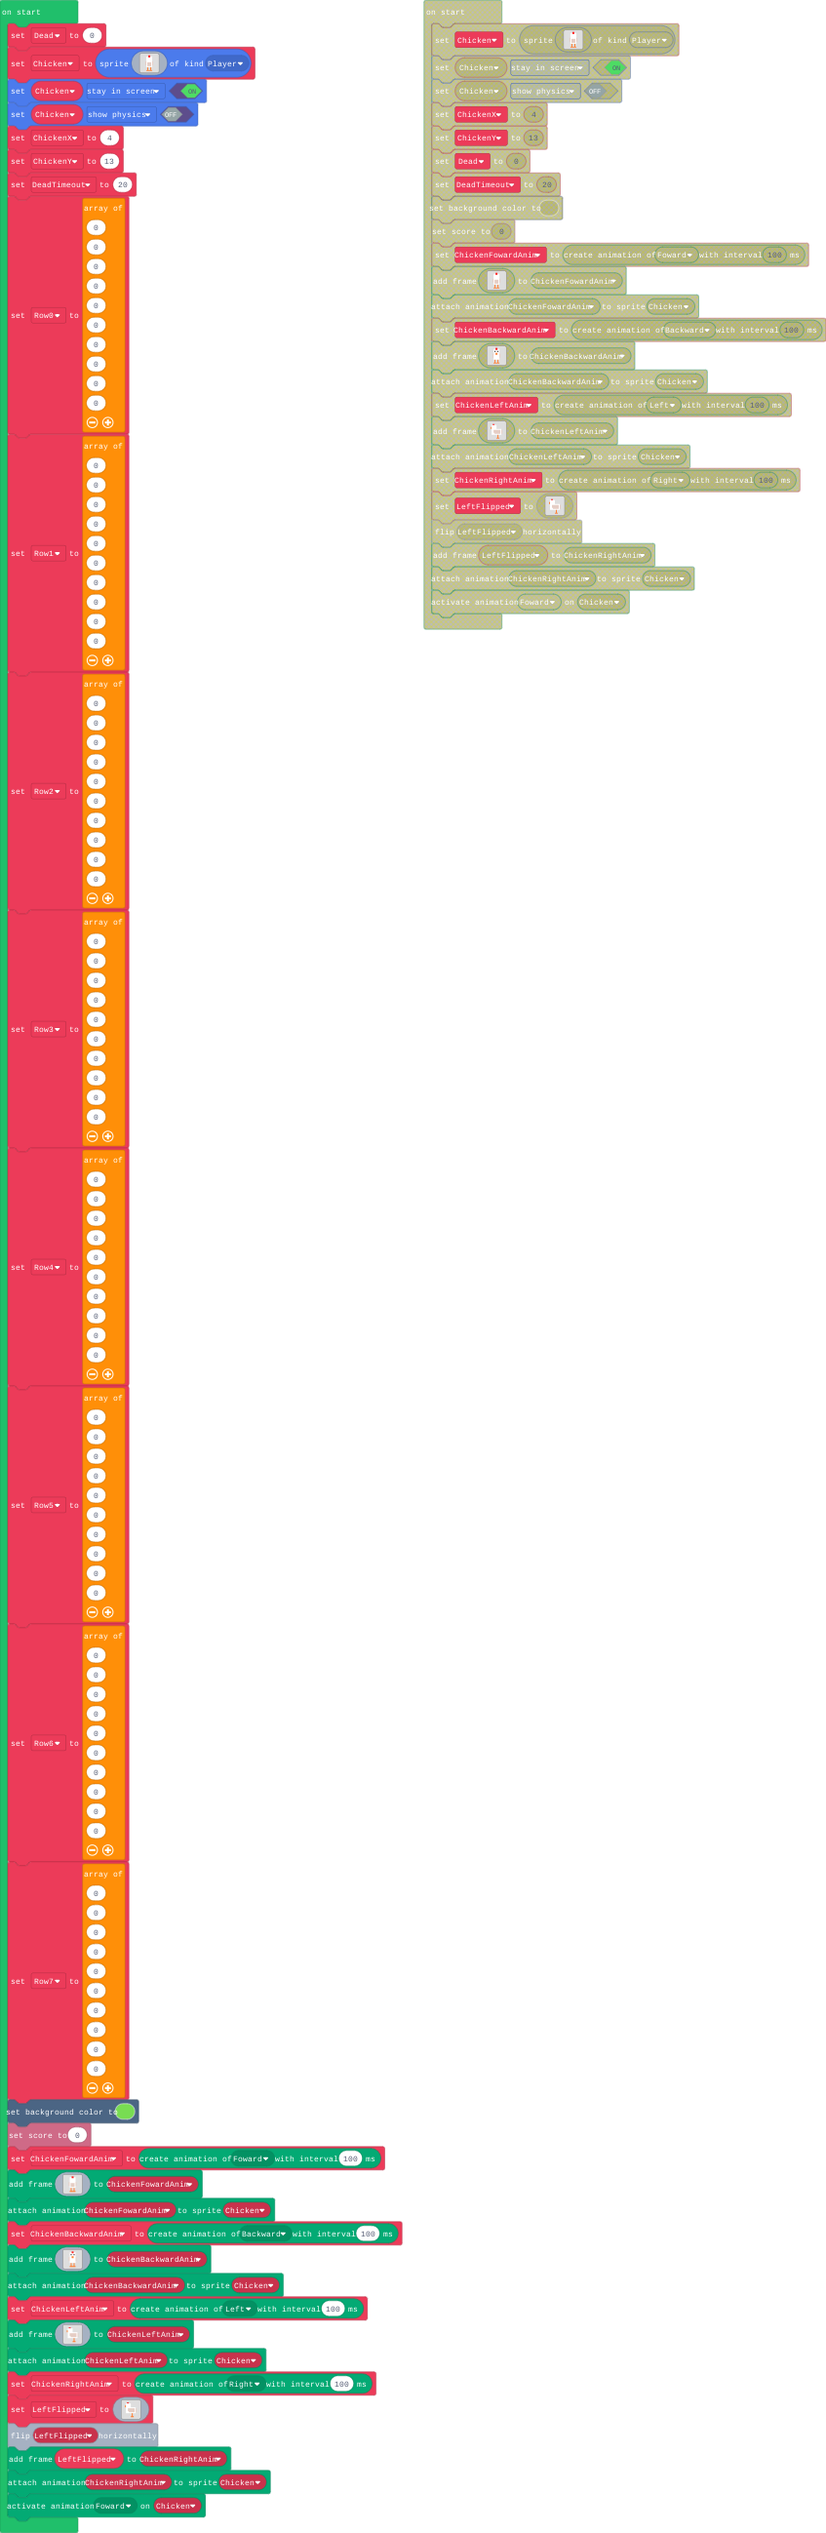
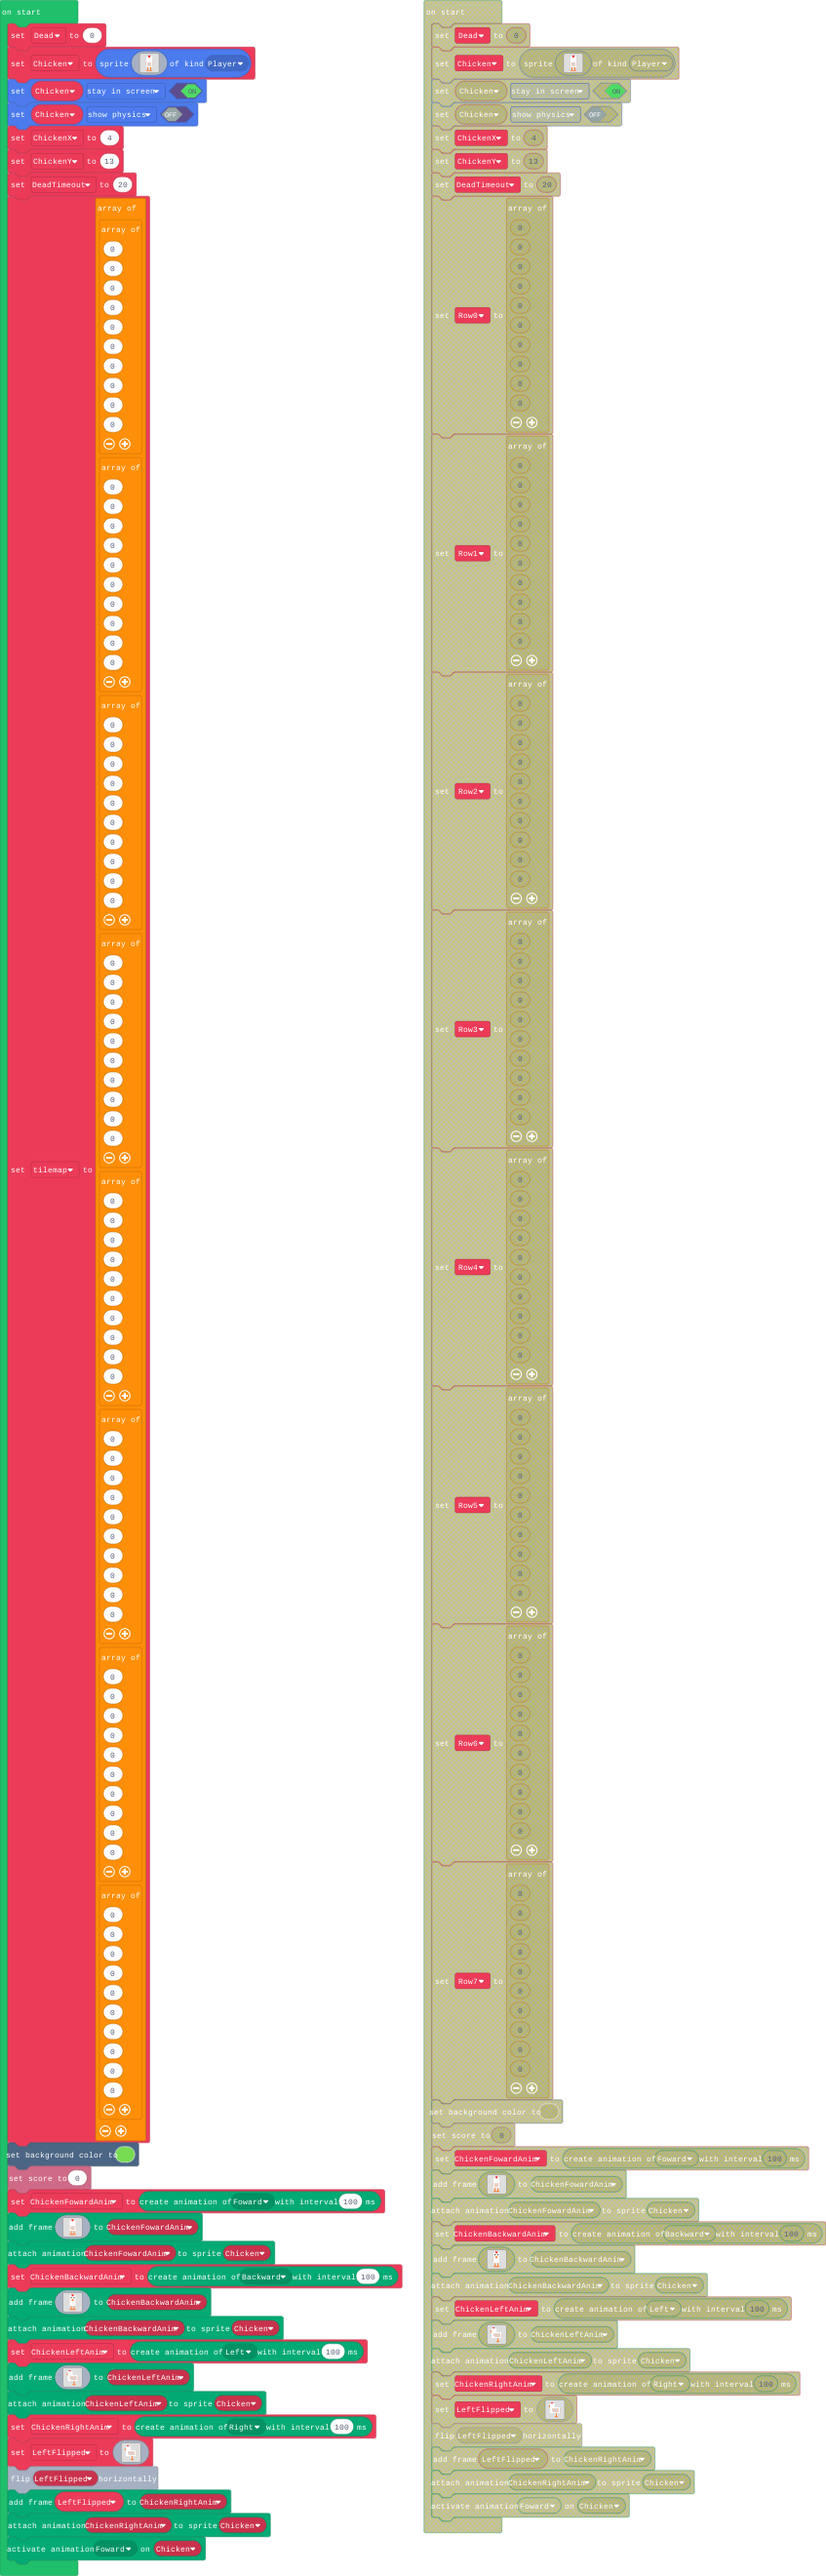
Changed arrays to 2D array and making tile key

Changed region(s): [[0.0, 0.0, 1.0, 0.9981]]

diff --git a/main.ts b/main.ts
@@ -9,116 +9,130 @@ enum ActionKind {
 }
 let Dead = 0
 let Chicken = sprites.create(img`
-. . . . . . . 2 2 . . . . . . . 
-. . . . . 1 1 2 2 1 1 . . . . . 
-. . . . . 1 1 1 1 1 1 . . . . . 
-. . . . . 1 1 1 1 1 1 . . . . . 
-. . . . . 1 1 1 1 1 1 . . . . . 
-. . . . . 1 1 1 1 1 1 . . . . . 
-. . . . d 1 1 1 1 1 1 d . . . . 
-. . . . d 1 d d d d 1 d . . . . 
-. . . . d 1 d d d d 1 d . . . . 
-. . . . d 1 d d d d 1 d . . . . 
-. . . . . 1 d d d d 1 . . . . . 
-. . . . . 1 1 1 1 1 1 . . . . . 
-. . . . . . 4 . . 4 . . . . . . 
-. . . . . . 4 . . 4 . . . . . . 
-. . . . . . 4 . . 4 . . . . . . 
-. . . . . 4 4 4 4 4 4 . . . . . 
+    . . . . . . . 2 2 . . . . . . .
+    . . . . . 1 1 2 2 1 1 . . . . .
+    . . . . . 1 1 1 1 1 1 . . . . .
+    . . . . . 1 1 1 1 1 1 . . . . .
+    . . . . . 1 1 1 1 1 1 . . . . .
+    . . . . . 1 1 1 1 1 1 . . . . .
+    . . . . d 1 1 1 1 1 1 d . . . .
+    . . . . d 1 d d d d 1 d . . . .
+    . . . . d 1 d d d d 1 d . . . .
+    . . . . d 1 d d d d 1 d . . . .
+    . . . . . 1 d d d d 1 . . . . .
+    . . . . . 1 1 1 1 1 1 . . . . .
+    . . . . . . 4 . . 4 . . . . . .
+    . . . . . . 4 . . 4 . . . . . .
+    . . . . . . 4 . . 4 . . . . . .
+    . . . . . 4 4 4 4 4 4 . . . . .
 `, SpriteKind.Player)
 Chicken.setFlag(SpriteFlag.StayInScreen, true)
 Chicken.setFlag(SpriteFlag.ShowPhysics, false)
 let ChickenX = 4
 let ChickenY = 13
 let DeadTimeout = 20
-let Row0 = [0, 0, 0, 0, 0, 0, 0, 0, 0, 0]
-let Row1 = [0, 0, 0, 0, 0, 0, 0, 0, 0, 0]
-let Row2 = [0, 0, 0, 0, 0, 0, 0, 0, 0, 0]
-let Row3 = [0, 0, 0, 0, 0, 0, 0, 0, 0, 0]
-let Row4 = [0, 0, 0, 0, 0, 0, 0, 0, 0, 0]
-let Row5 = [0, 0, 0, 0, 0, 0, 0, 0, 0, 0]
-let Row6 = [0, 0, 0, 0, 0, 0, 0, 0, 0, 0]
-let Row7 = [0, 0, 0, 0, 0, 0, 0, 0, 0, 0]
+// +---------------------+
+// | Tilemap Key         |
+// +---------------------+
+// |Key  |Value          |
+// +---------------------+
+// |0    |Nothing        |
+// |1    |Water          |
+// |2    |Water + Lilypad|
+// |3    |Grass          |
+// |4    |Grass + Pollen |
+// |5    |Grass ++ Pollen|
+// |6    |Grass + Flowers|
+let tilemap = [
+    [0, 0, 0, 0, 0, 0, 0, 0, 0, 0], 
+    [0, 0, 0, 0, 0, 0, 0, 0, 0, 0], 
+    [0, 0, 0, 0, 0, 0, 0, 0, 0, 0], 
+    [0, 0, 0, 0, 0, 0, 0, 0, 0, 0], 
+    [0, 0, 0, 0, 0, 0, 0, 0, 0, 0], 
+    [0, 0, 0, 0, 0, 0, 0, 0, 0, 0], 
+    [0, 0, 0, 0, 0, 0, 0, 0, 0, 0], 
+    [0, 0, 0, 0, 0, 0, 0, 0, 0, 0]
+]
 scene.setBackgroundColor(7)
 info.setScore(0)
 let ChickenFowardAnim = animation.createAnimation(ActionKind.Foward, 100)
 ChickenFowardAnim.addAnimationFrame(img`
-. . . . . . . 2 2 . . . . . . . 
-. . . . . 1 1 2 2 1 1 . . . . . 
-. . . . . 1 1 1 1 1 1 . . . . . 
-. . . . . 1 1 1 1 1 1 . . . . . 
-. . . . . 1 1 1 1 1 1 . . . . . 
-. . . . . 1 1 1 1 1 1 . . . . . 
-. . . . d 1 1 1 1 1 1 d . . . . 
-. . . . d 1 d d d d 1 d . . . . 
-. . . . d 1 d d d d 1 d . . . . 
-. . . . d 1 d d d d 1 d . . . . 
-. . . . . 1 d d d d 1 . . . . . 
-. . . . . 1 1 1 1 1 1 . . . . . 
-. . . . . . 4 . . 4 . . . . . . 
-. . . . . . 4 . . 4 . . . . . . 
-. . . . . . 4 . . 4 . . . . . . 
-. . . . . 4 4 4 4 4 4 . . . . . 
+    . . . . . . . 2 2 . . . . . . .
+    . . . . . 1 1 2 2 1 1 . . . . .
+    . . . . . 1 1 1 1 1 1 . . . . .
+    . . . . . 1 1 1 1 1 1 . . . . .
+    . . . . . 1 1 1 1 1 1 . . . . .
+    . . . . . 1 1 1 1 1 1 . . . . .
+    . . . . d 1 1 1 1 1 1 d . . . .
+    . . . . d 1 d d d d 1 d . . . .
+    . . . . d 1 d d d d 1 d . . . .
+    . . . . d 1 d d d d 1 d . . . .
+    . . . . . 1 d d d d 1 . . . . .
+    . . . . . 1 1 1 1 1 1 . . . . .
+    . . . . . . 4 . . 4 . . . . . .
+    . . . . . . 4 . . 4 . . . . . .
+    . . . . . . 4 . . 4 . . . . . .
+    . . . . . 4 4 4 4 4 4 . . . . .
 `)
 animation.attachAnimation(Chicken, ChickenFowardAnim)
 let ChickenBackwardAnim = animation.createAnimation(ActionKind.Backward, 100)
 ChickenBackwardAnim.addAnimationFrame(img`
-. . . . . . . 2 2 . . . . . . . 
-. . . . . 1 1 2 2 1 1 . . . . . 
-. . . . . 1 1 1 1 1 1 . . . . . 
-. . . . . 1 f 1 1 f 1 . . . . . 
-. . . . . 1 1 1 1 1 1 . . . . . 
-. . . . . 1 1 4 4 1 1 . . . . . 
-. . . . d 1 1 4 4 1 1 d . . . . 
-. . . . d 1 1 1 1 1 1 d . . . . 
-. . . . d 1 1 1 1 1 1 d . . . . 
-. . . . d 1 1 1 1 1 1 d . . . . 
-. . . . . 1 1 1 1 1 1 . . . . . 
-. . . . . 1 1 1 1 1 1 . . . . . 
-. . . . . . 4 . . 4 . . . . . . 
-. . . . . . 4 . . 4 . . . . . . 
-. . . . . . 4 . . 4 . . . . . . 
-. . . . . 4 4 4 4 4 4 . . . . . 
+    . . . . . . . 2 2 . . . . . . .
+    . . . . . 1 1 2 2 1 1 . . . . .
+    . . . . . 1 1 1 1 1 1 . . . . .
+    . . . . . 1 f 1 1 f 1 . . . . .
+    . . . . . 1 1 1 1 1 1 . . . . .
+    . . . . . 1 1 4 4 1 1 . . . . .
+    . . . . d 1 1 4 4 1 1 d . . . .
+    . . . . d 1 1 1 1 1 1 d . . . .
+    . . . . d 1 1 1 1 1 1 d . . . .
+    . . . . d 1 1 1 1 1 1 d . . . .
+    . . . . . 1 1 1 1 1 1 . . . . .
+    . . . . . 1 1 1 1 1 1 . . . . .
+    . . . . . . 4 . . 4 . . . . . .
+    . . . . . . 4 . . 4 . . . . . .
+    . . . . . . 4 . . 4 . . . . . .
+    . . . . . 4 4 4 4 4 4 . . . . .
 `)
 animation.attachAnimation(Chicken, ChickenBackwardAnim)
 let ChickenLeftAnim = animation.createAnimation(ActionKind.Left, 100)
 ChickenLeftAnim.addAnimationFrame(img`
-. . . . . . . . . . . . . . . . 
-. . . . 2 2 . . . . . . . . . . 
-. . . 1 1 1 1 1 . . . . . . . . 
-. . . 1 1 1 1 1 . . . . . . . . 
-. . 4 1 1 1 1 1 . . . . . . . . 
-. . 4 1 1 1 1 1 . . . . . . . . 
-. . . 1 1 1 1 1 1 1 1 1 1 . . . 
-. . . 1 1 d d d d d d d 1 d . . 
-. . . 1 1 d d d d d d d 1 d . . 
-. . . 1 1 d d d d d d d 1 d . . 
-. . . 1 1 1 d d d d d d 1 d . . 
-. . . 1 1 1 1 1 1 1 1 1 1 . . . 
-. . . . . . . . . 4 . . . . . . 
-. . . . . . . . . 4 . . . . . . 
-. . . . . . . . . 4 . . . . . . 
-. . . . . . . . 4 4 4 . . . . . 
+    . . . . . . . . . . . . . . . .
+    . . . . 2 2 . . . . . . . . . .
+    . . . 1 1 1 1 1 . . . . . . . .
+    . . . 1 1 1 1 1 . . . . . . . .
+    . . 4 1 1 1 1 1 . . . . . . . .
+    . . 4 1 1 1 1 1 . . . . . . . .
+    . . . 1 1 1 1 1 1 1 1 1 1 . . .
+    . . . 1 1 d d d d d d d 1 d . .
+    . . . 1 1 d d d d d d d 1 d . .
+    . . . 1 1 d d d d d d d 1 d . .
+    . . . 1 1 1 d d d d d d 1 d . .
+    . . . 1 1 1 1 1 1 1 1 1 1 . . .
+    . . . . . . . . . 4 . . . . . .
+    . . . . . . . . . 4 . . . . . .
+    . . . . . . . . . 4 . . . . . .
+    . . . . . . . . 4 4 4 . . . . .
 `)
 animation.attachAnimation(Chicken, ChickenLeftAnim)
 let ChickenRightAnim = animation.createAnimation(ActionKind.Right, 100)
 let LeftFlipped = img`
-. . . . . . . . . . . . . . . . 
-. . . . 2 2 . . . . . . . . . . 
-. . . 1 1 1 1 1 . . . . . . . . 
-. . . 1 1 1 1 1 . . . . . . . . 
-. . 4 1 1 1 1 1 . . . . . . . . 
-. . 4 1 1 1 1 1 . . . . . . . . 
-. . . 1 1 1 1 1 1 1 1 1 1 . . . 
-. . . 1 1 d d d d d d d 1 d . . 
-. . . 1 1 d d d d d d d 1 d . . 
-. . . 1 1 d d d d d d d 1 d . . 
-. . . 1 1 1 d d d d d d 1 d . . 
-. . . 1 1 1 1 1 1 1 1 1 1 . . . 
-. . . . . . . . . 4 . . . . . . 
-. . . . . . . . . 4 . . . . . . 
-. . . . . . . . . 4 . . . . . . 
-. . . . . . . . 4 4 4 . . . . . 
+    . . . . . . . . . . . . . . . .
+    . . . . 2 2 . . . . . . . . . .
+    . . . 1 1 1 1 1 . . . . . . . .
+    . . . 1 1 1 1 1 . . . . . . . .
+    . . 4 1 1 1 1 1 . . . . . . . .
+    . . 4 1 1 1 1 1 . . . . . . . .
+    . . . 1 1 1 1 1 1 1 1 1 1 . . .
+    . . . 1 1 d d d d d d d 1 d . .
+    . . . 1 1 d d d d d d d 1 d . .
+    . . . 1 1 d d d d d d d 1 d . .
+    . . . 1 1 1 d d d d d d 1 d . .
+    . . . 1 1 1 1 1 1 1 1 1 1 . . .
+    . . . . . . . . . 4 . . . . . .
+    . . . . . . . . . 4 . . . . . .
+    . . . . . . . . . 4 . . . . . .
+    . . . . . . . . 4 4 4 . . . . .
 `
 LeftFlipped.flipX()
 ChickenRightAnim.addAnimationFrame(LeftFlipped)
